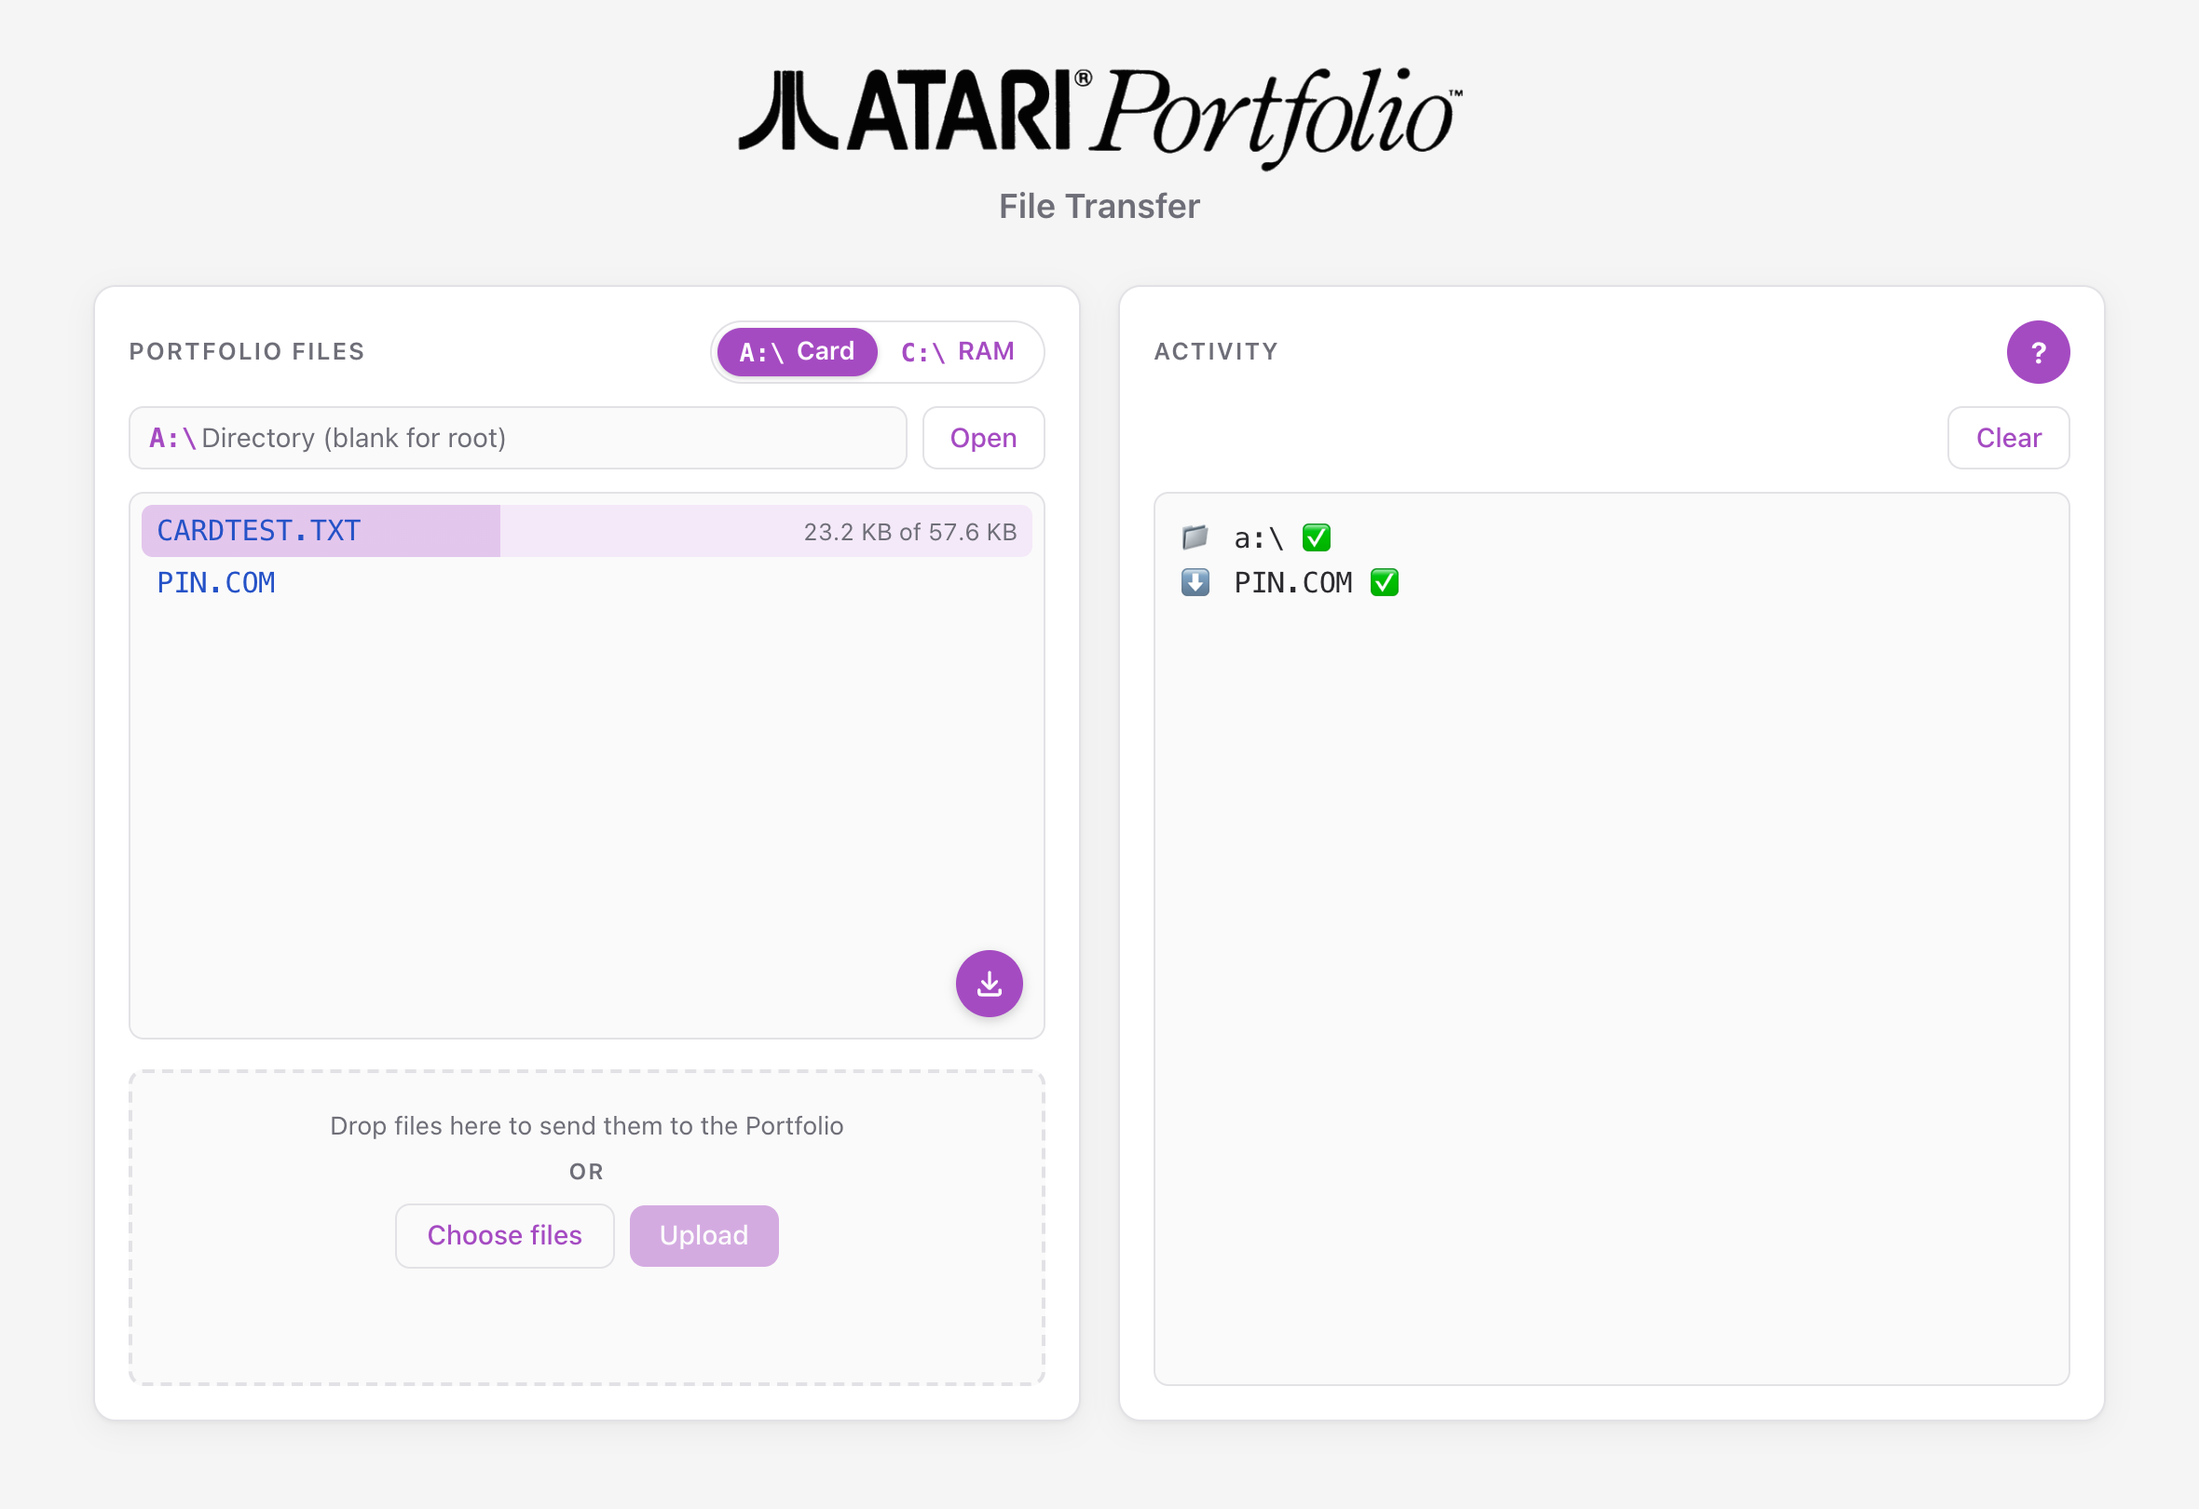
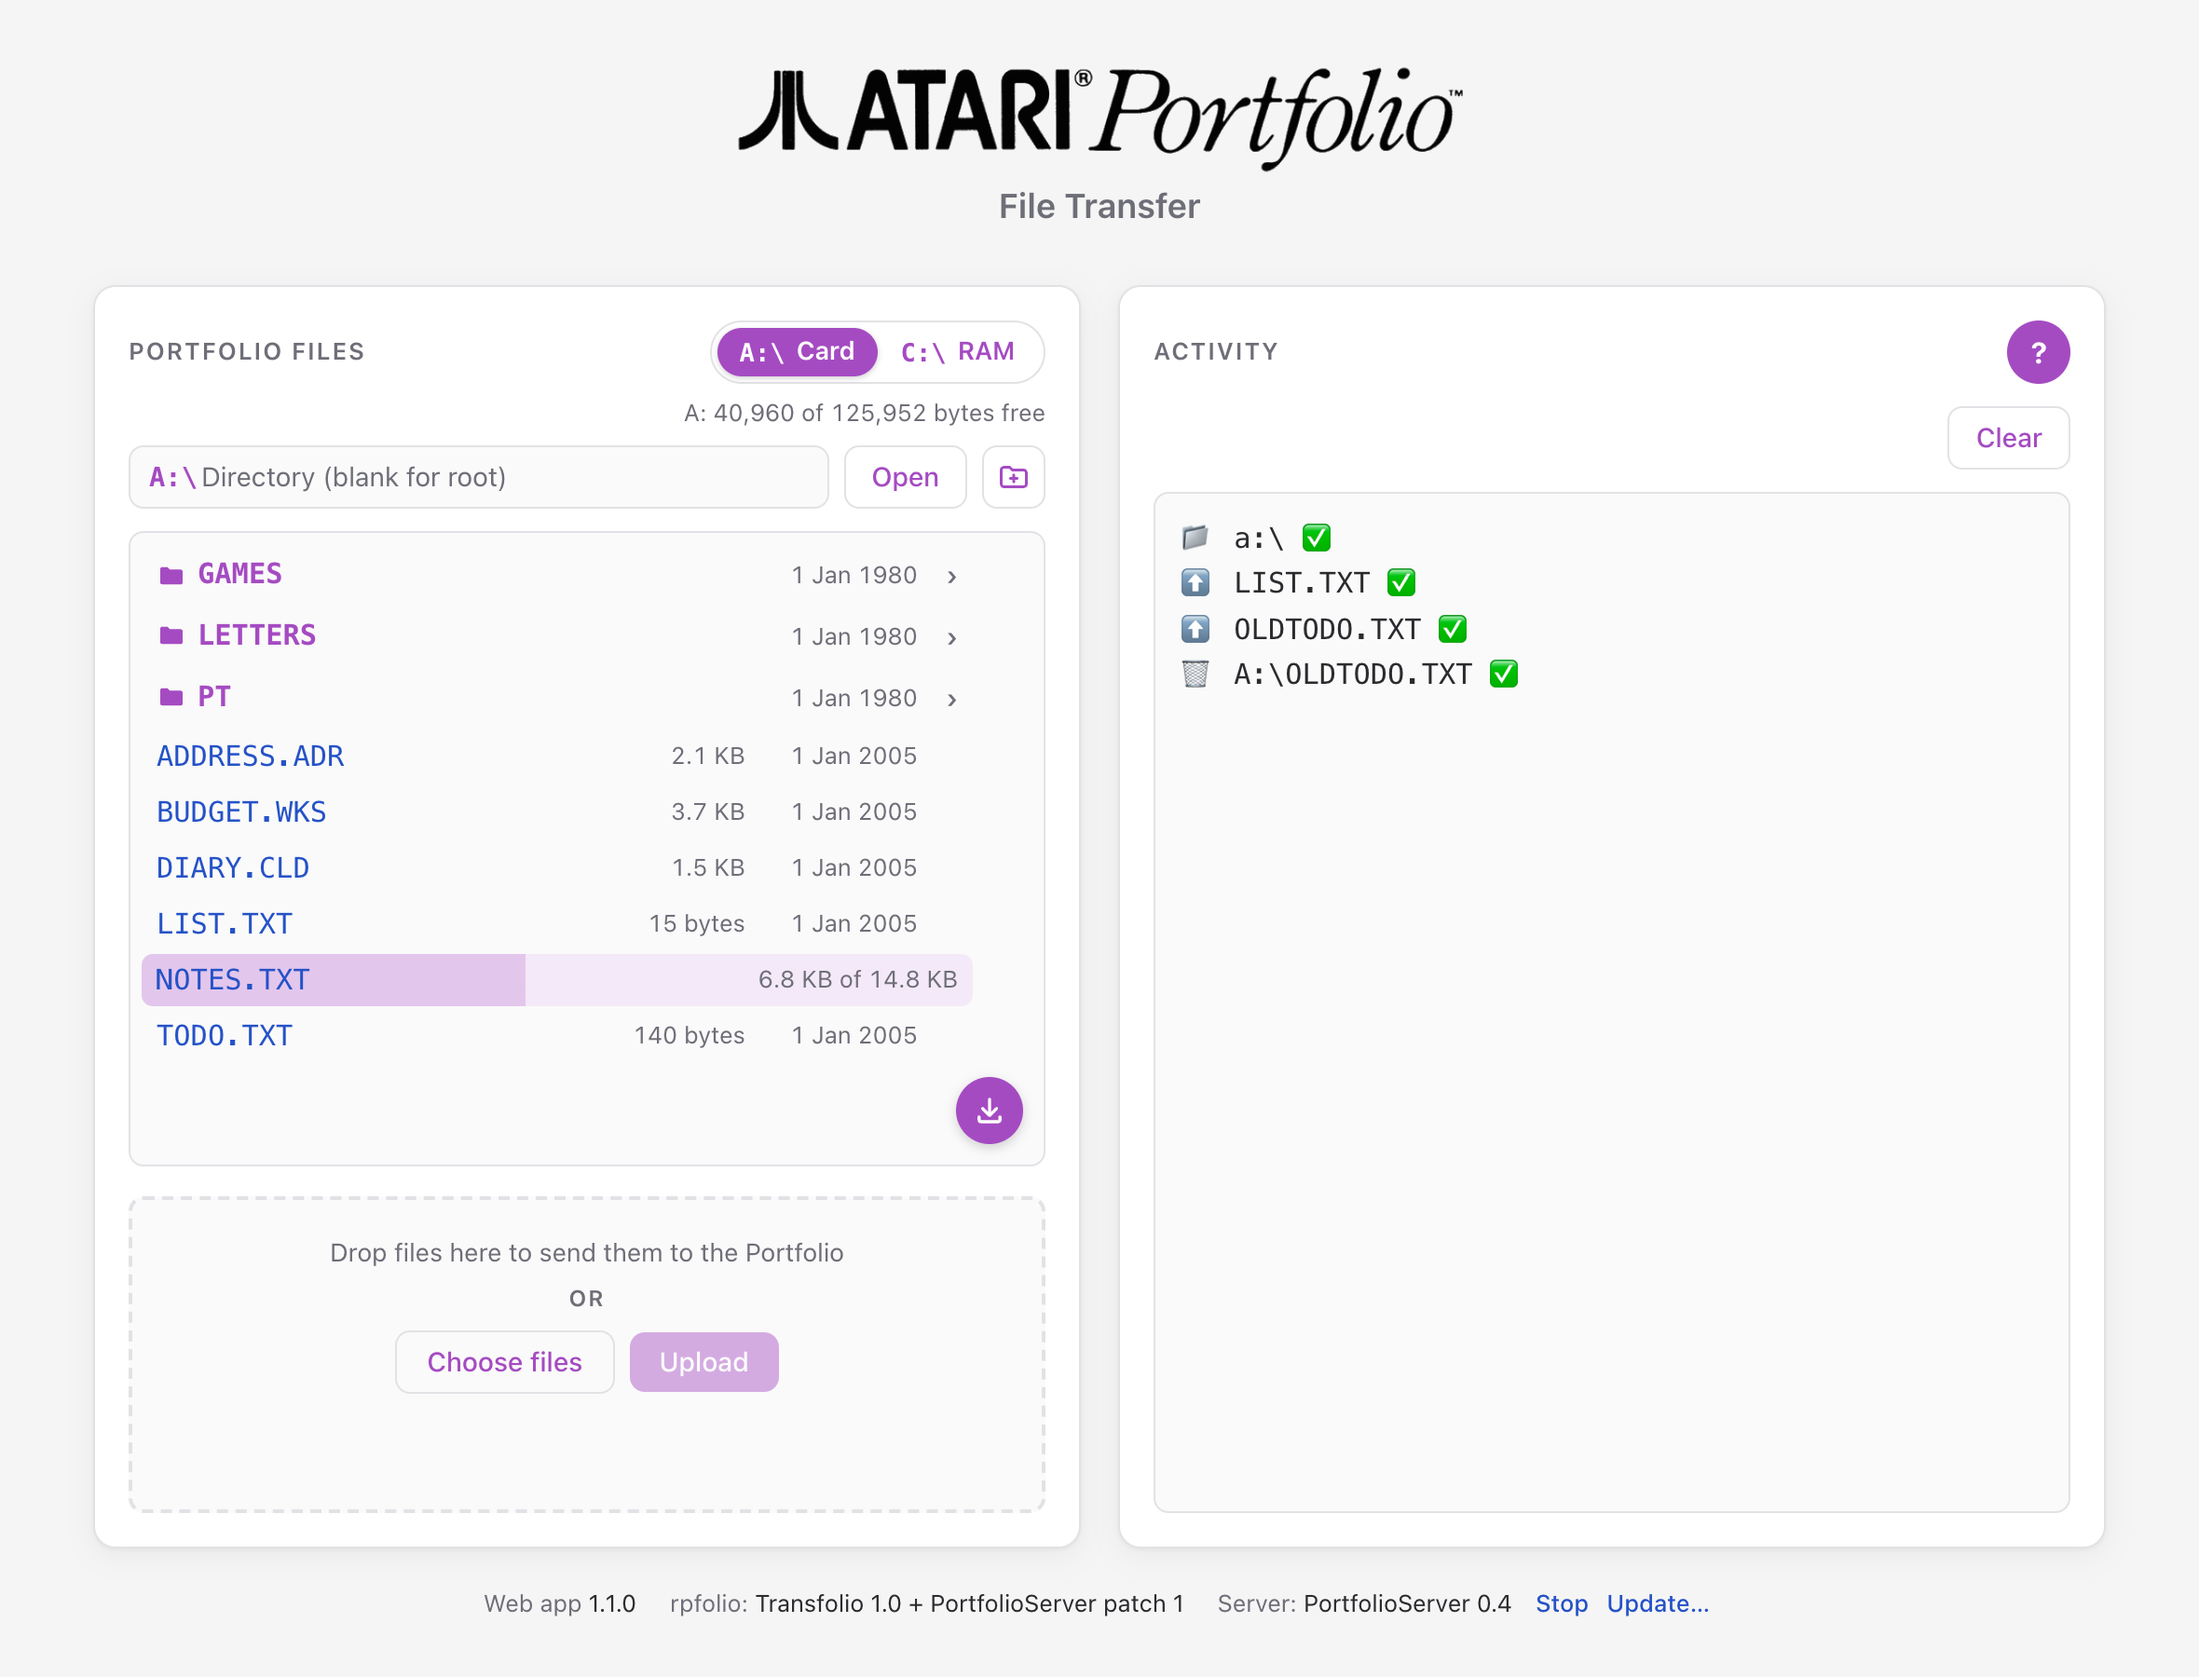
Update the screenshots and README for PortfolioServer
New screenshots, taken from the live page on the Pi with PortfolioServer
0.4: the card's folders, sizes and dates with a download part-way (light
mode), the delete confirmation (dark mode), the list with its delete
buttons on a phone, and the help panel's PortfolioServer section. The
alt text describes what each one shows.

The README's Downloading and Uploading paragraphs still described the
old "Downloading..." text and a file-counting upload bar; they now
describe the byte progress. The help panel gets a gap between
paragraphs, which its PortfolioServer section needs.

diff --git a/public/rpf.html b/public/rpf.html
@@ -6,7 +6,7 @@
     <meta name="viewport" content="width=device-width,initial-scale=1" />
     <!-- ?v= makes browsers fetch the stylesheet again after it changes
          (Safari kept showing an old copy); bump it when styles.css changes -->
-    <link rel="stylesheet" href="styles.css?v=4" type="text/css">
+    <link rel="stylesheet" href="styles.css?v=5" type="text/css">
     <!-- ?v= makes browsers (Safari especially) fetch the icon again after it changes -->
     <link rel="icon" href="favicon.ico?v=2" sizes="16x16 32x32 64x64" />
     <link rel="icon" type="image/png" sizes="64x64" href="favicon.png?v=2" />

diff --git a/public/styles.css b/public/styles.css
@@ -1194,6 +1194,10 @@ input[type="submit"]:disabled {
     line-height: 1.55;
 }
 
+.help-body p + p {
+    margin-top: 8px;
+}
+
 .help-body h3 {
     margin: 16px 0 4px;
     font-size: 0.75rem;

diff --git a/README.md b/README.md
@@ -5,7 +5,7 @@
 Connect a Raspberry Pi to the Portfolio's Parallel Interface, then browse, download and upload files from any browser on your network — desktop or phone.
 
 <p align="center">
-  <img src="images/screenshot-desktop.png" width="800" alt="The PiPortfolioDaemon web interface: the A:\ memory card on the left, with CARDTEST.TXT part-way through downloading (23.2 KB of 57.6 KB), and the activity log on the right" />
+  <img src="images/screenshot-desktop.png" width="800" alt="The PiPortfolioDaemon web interface with PortfolioServer: the A:\ memory card on the left, with its folders first, each file's size and date, the free space under the drive toggle, and NOTES.TXT part-way through downloading (6.8 KB of 14.8 KB); the activity log on the right; the versions of the web app, rpfolio and PortfolioServer in the footer" />
 </p>
 
 | | |
@@ -61,13 +61,13 @@ Without these, a Portfolio is mostly a pretty plastic brick. PiPortfolioDaemon r
 ## Screenshots
 
 <p align="center">
-  <img src="images/screenshot-dark.png" width="560" alt="The web interface in dark mode: the C:\ RAM disk, with the download-all button filling as the folder downloads" />
+  <img src="images/screenshot-dark.png" width="560" alt="The web interface in dark mode, asking for confirmation before deleting BUDGET.WKS from the memory card" />
   &nbsp;
-  <img src="images/screenshot-mobile.png" width="220" alt="The web interface on a phone, part-way through downloading a file from the memory card" />
+  <img src="images/screenshot-mobile.png" width="220" alt="The web interface on a phone: the memory card's folders and files with their sizes, and a delete button on each row" />
 </p>
 
 <p align="center">
-  <img src="images/screenshot-help.png" width="560" alt="The built-in help panel, open at its Downloading and Uploading sections" />
+  <img src="images/screenshot-help.png" width="560" alt="The built-in help panel, open at its PortfolioServer section" />
 </p>
 
 ---
@@ -241,9 +241,9 @@ Click the **?** button on the page for the same instructions.
 
 **Folders** — with [PortfolioServer](#optional-portfolioserver), folders are listed first and open with a click. The built-in server doesn't report folders in its file listings, so there open one by typing its name in the directory field (for example `GAMES` or `GAMES\SAVES`) and pressing **Enter** or **Open**. Leave it blank for the drive's root. **↰ ..** at the top of the list goes up one level. If the folder doesn't exist, the activity log shows ❌ *(folder not found)* and the page goes back up to the nearest folder that does.
 
-**Downloading** — click a file name. It shows *Downloading…* until the file arrives (transfers run at roughly 1.5 KB a second). If the download fails, a message says why and the activity log shows ❌. The round download button in the lower right of the list downloads every file in the folder as one `.zip`, named after the folder (`GAMES.zip`, or `C-drive.zip` for a drive's root).
+**Downloading** — click a file name. Its row fills up and shows how much has arrived, e.g. *6.8 KB of 14.8 KB* (transfers run at roughly 1.5 KB a second). Without PortfolioServer, a size starting with `~` is an estimate, which becomes exact near the end. If the download fails, a message says why and the activity log shows ❌. The round download button in the lower right of the list downloads every file in the folder as one `.zip`, named after the folder (`GAMES.zip`, or `C-drive.zip` for a drive's root).
 
-**Uploading** — drop one or more files onto the upload box to send them straight away, or use **Choose files**, then **Upload**. They go to the folder shown above the list and replace any files with the same names. A bar under the buttons counts the files as each one reaches the Portfolio. Files can be up to 2 MB. The Portfolio uses short DOS names (8 characters plus a 3-character extension, like `NOTES.TXT`), so longer names are shortened. If an upload fails, the activity log shows ❌ with the reason and the file is discarded; just upload it again. Uploads run at roughly 1 KB a second, so a large file takes a while; the rest of the page keeps working meanwhile.
+**Uploading** — drop one or more files onto the upload box to send them straight away, or use **Choose files**, then **Upload**. They go to the folder shown above the list and replace any files with the same names. A bar under the buttons shows how much has reached the Portfolio, and which file is being sent. Files can be up to 2 MB. The Portfolio uses short DOS names (8 characters plus a 3-character extension, like `NOTES.TXT`), so longer names are shortened. If an upload fails, the activity log shows ❌ with the reason and the file is discarded; just upload it again. Uploads run at roughly 1 KB a second, so a large file takes a while; the rest of the page keeps working meanwhile.
 
 **Activity** — lists uploads (⬆), downloads (⬇), deletes (🗑) and folder changes (📁), with ✅ or ❌ for each one (❌ with the reason, such as a folder that wasn't found). It is shared by everyone using the page and kept until the server restarts. **Clear** empties it for everyone.
 
